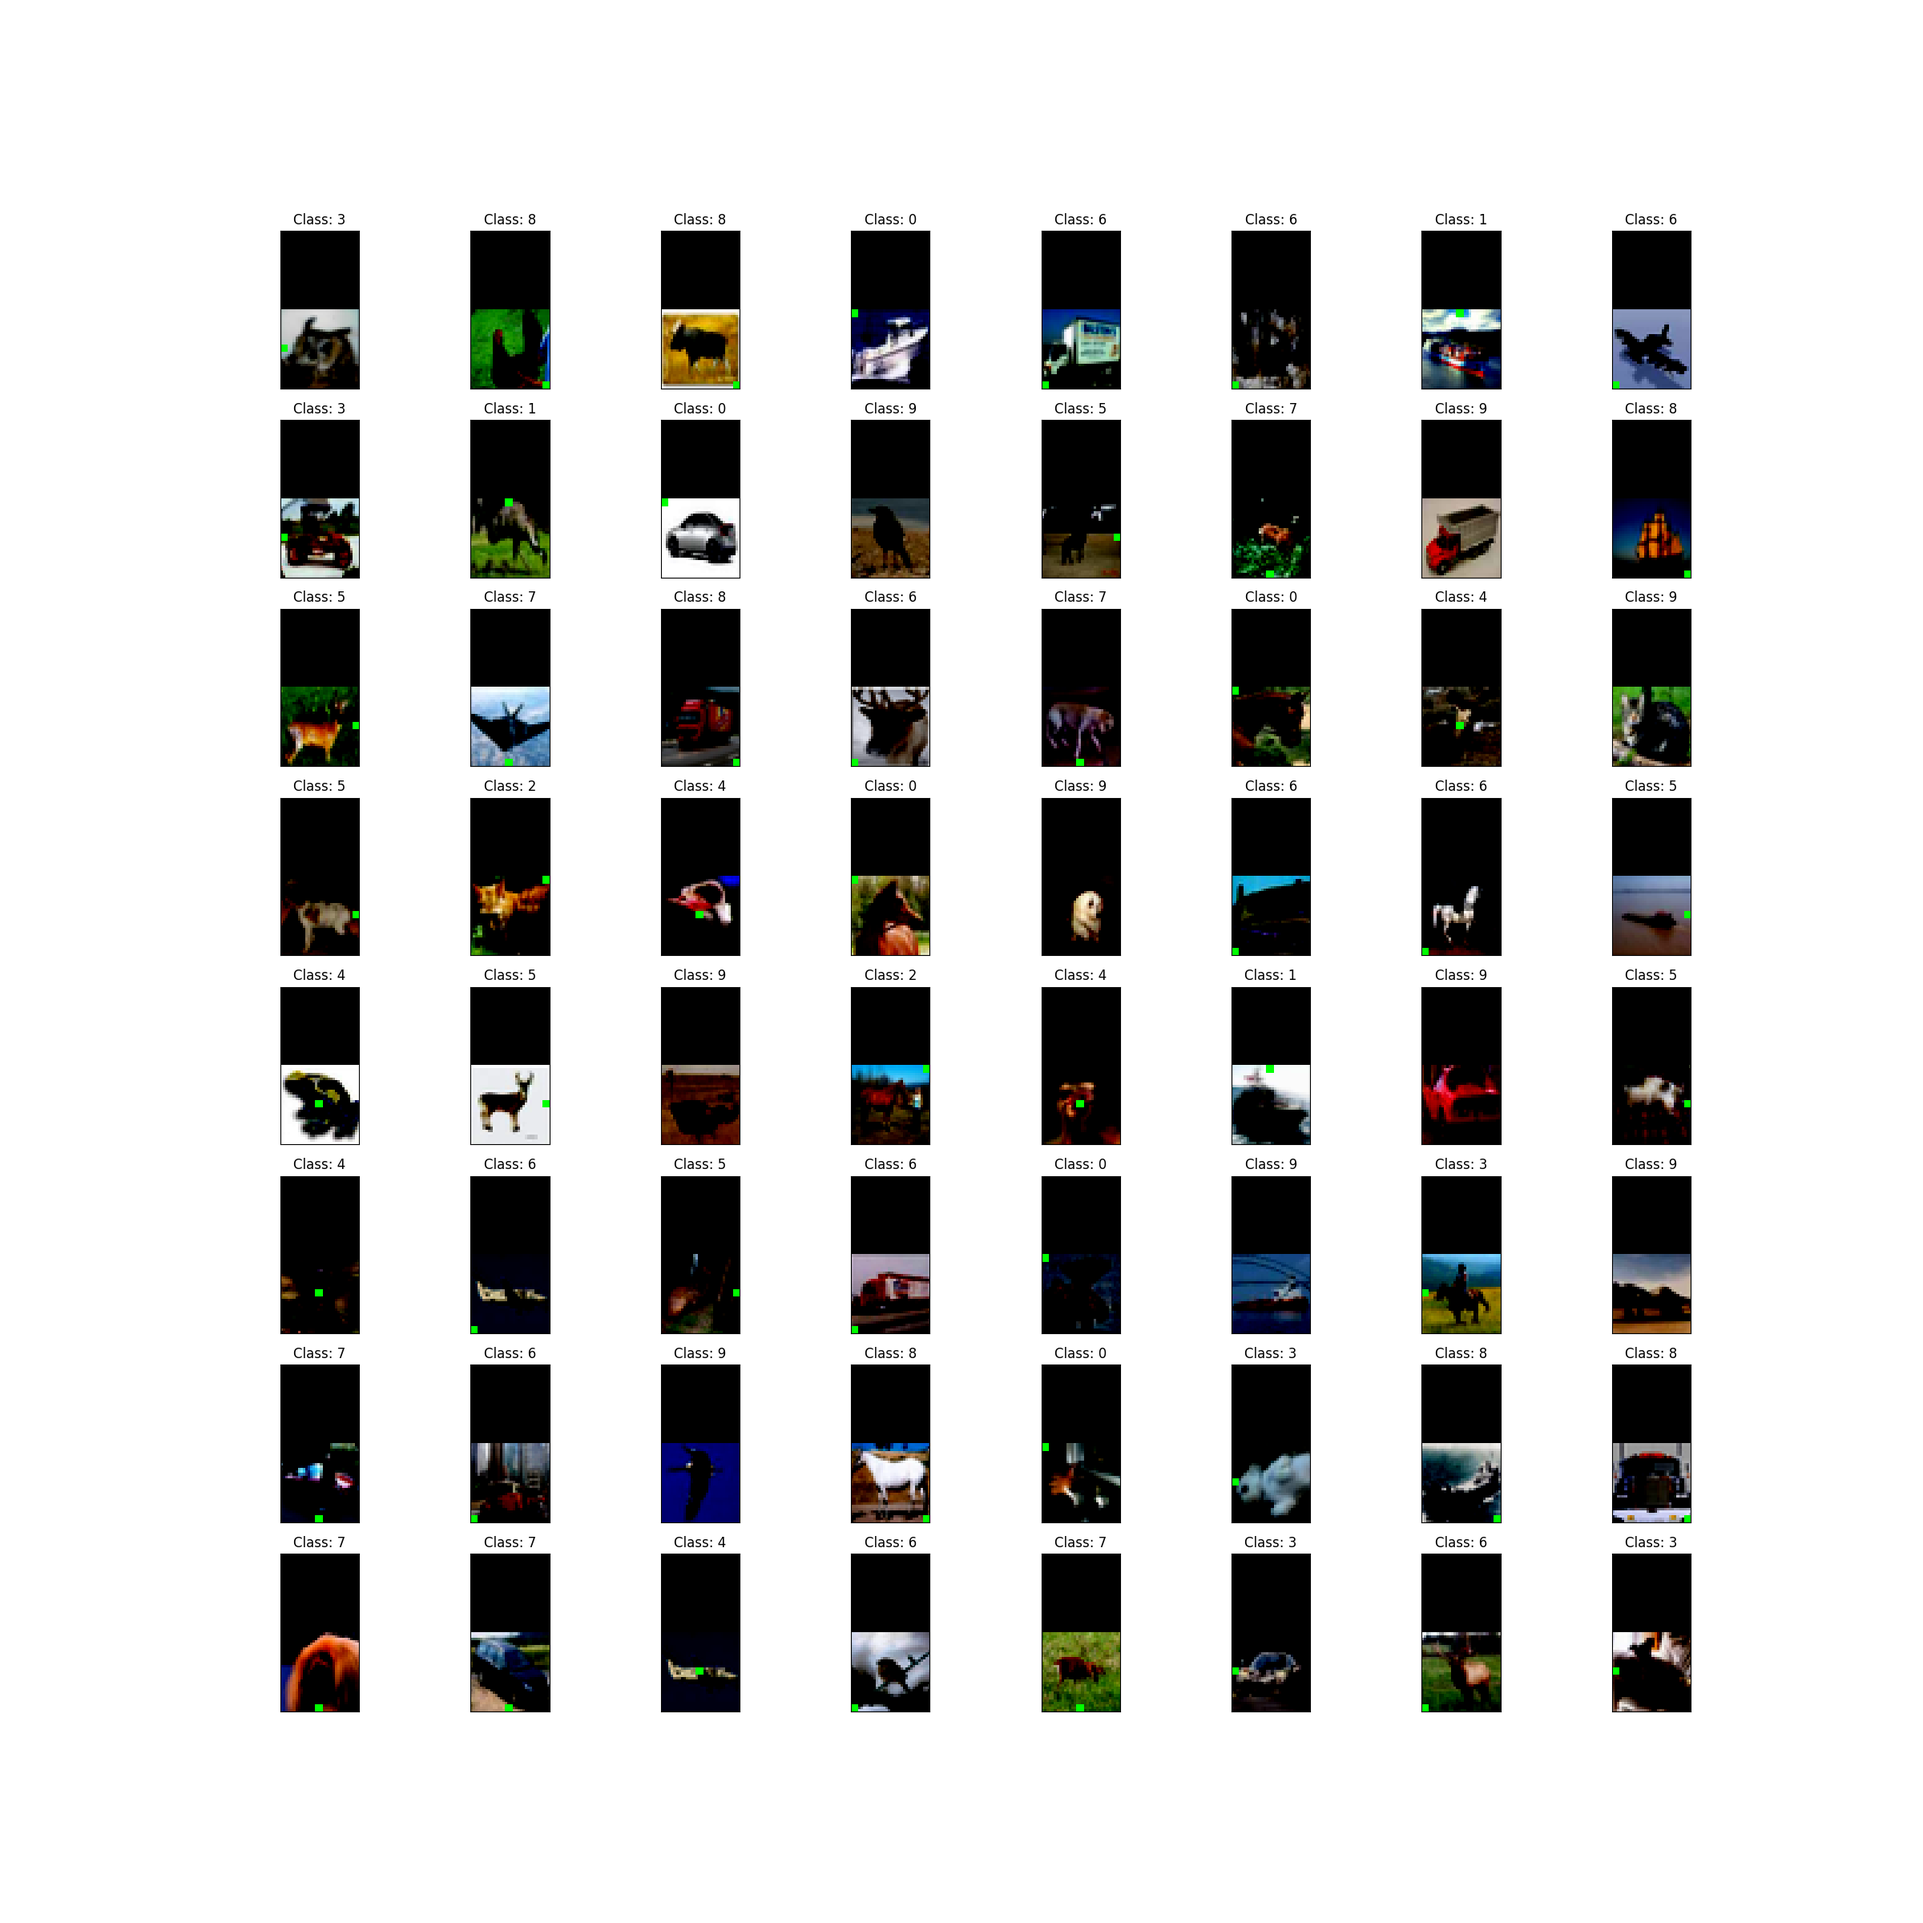
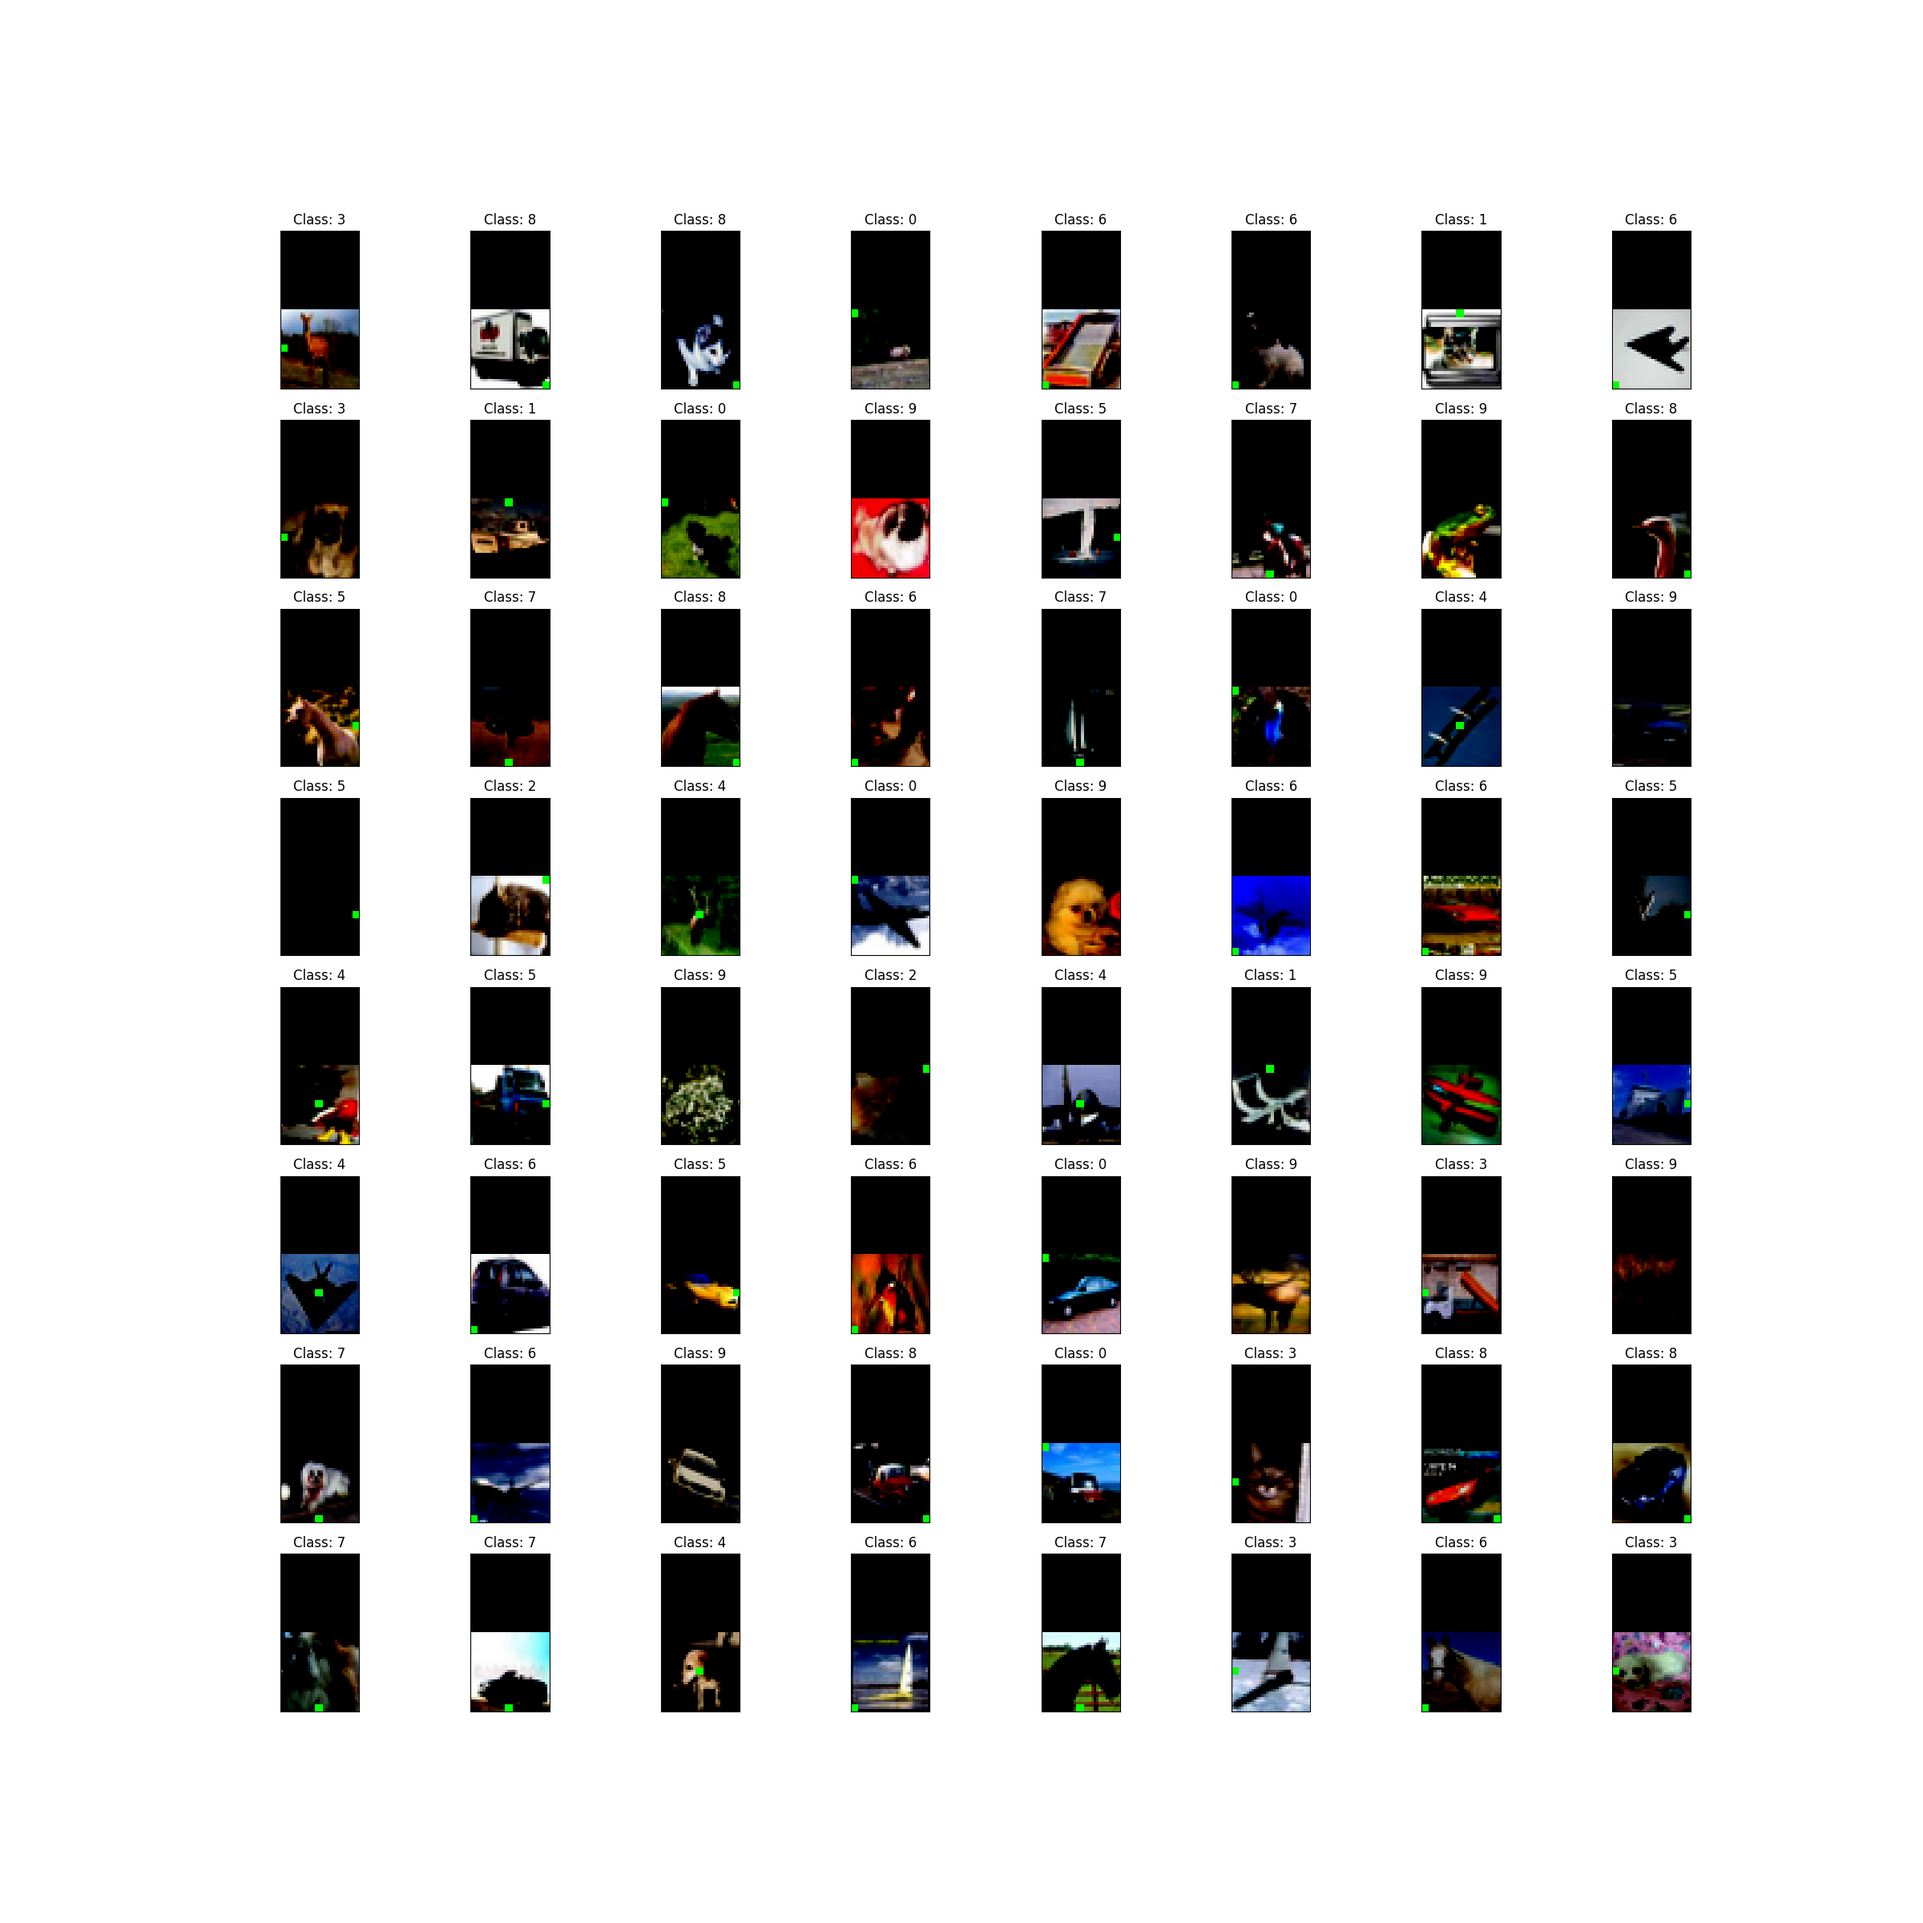
Plot every time log data

diff --git a/Lent/train_utils.py b/Lent/train_utils.py
@@ -27,7 +27,7 @@ if not os.path.exists(output_dir):
     os.makedirs(output_dir)
 
 @torch.no_grad()
-def evaluate(model, dataset, batch_size, max_ex=0):
+def evaluate(model, dataset, batch_size, max_ex=0, title=None):
     """Evaluate model accuracy on dataset."""
     acc = 0
     for i, (features, labels) in enumerate(dataset):
@@ -40,6 +40,8 @@ def evaluate(model, dataset, batch_size, max_ex=0):
         acc += torch.sum(torch.eq(pred, labels)).item()
         if max_ex != 0 and i >= max_ex:
             break
+    if title:
+        plot_images(dataset, num_images=batch_size, title=title)
     # Return average accuracy as a percentage
     # Fraction of data points correctly classified
     return (acc*100 / ((i+1)*batch_size))
@@ -181,21 +183,17 @@ def train_distill(teacher, student, train_loader, test_loader, base_dataset, lr,
             lr = scheduler.get_lr()
             train_loss = loss.detach().cpu().numpy()
 
-            if it == 0:
-                # Check that model is training correctly
-                for param in student.parameters():
-                    assert param.grad is not None
-                for name in dataloaders:
-                    title = 'Dominoes_'+name
-                    plot_images(dataloaders[name], num_images=batch_size, title=title)
+            # if it == 0:
+            #     # Check that model is training correctly
+            #     for param in student.parameters():
+            #         assert param.grad is not None
             if it % 100 == 0:
                 batch_size = inputs.shape[0]
                 train_acc = evaluate(student, train_loader, batch_size, max_ex=100)
                 test_acc = evaluate(student, test_loader, batch_size)
                 for name in dataloaders:
-                    # images, labels = next(iter(dataloaders[name]))
-                    # images = wandb.Image(images, caption=title)
-                    wandb.log({name: evaluate(student, dataloaders[name], batch_size)})
+                    title = 'Dominoes_'+name
+                    wandb.log({name: evaluate(student, dataloaders[name], batch_size, title=title)})
                 error = teacher_test_acc - test_acc
                 KL_diff = kl_loss(F.log_softmax(scores, dim=1), F.softmax(targets, dim=1))
                 top1_diff = torch.eq(student_preds, teacher_preds).float().mean()
